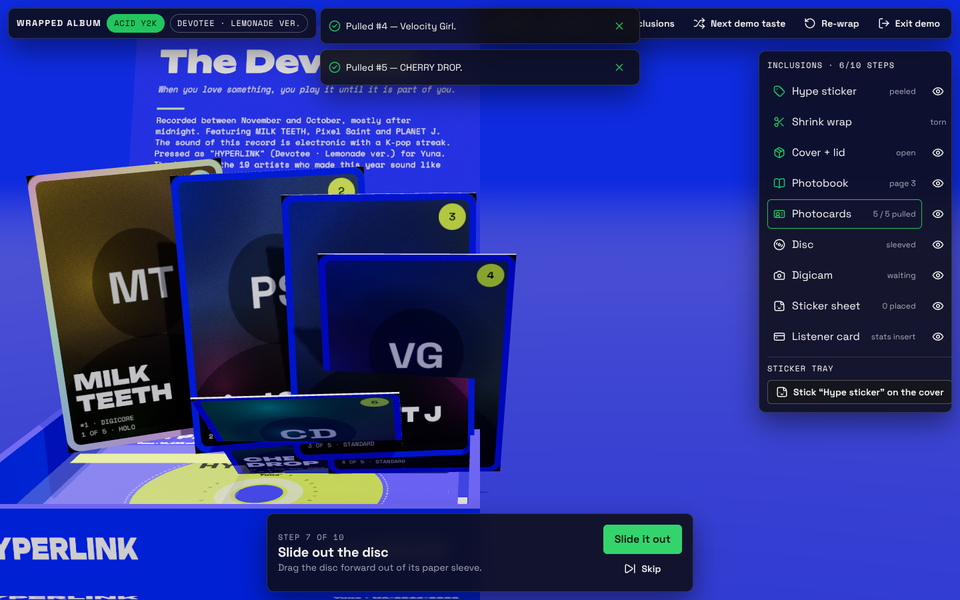
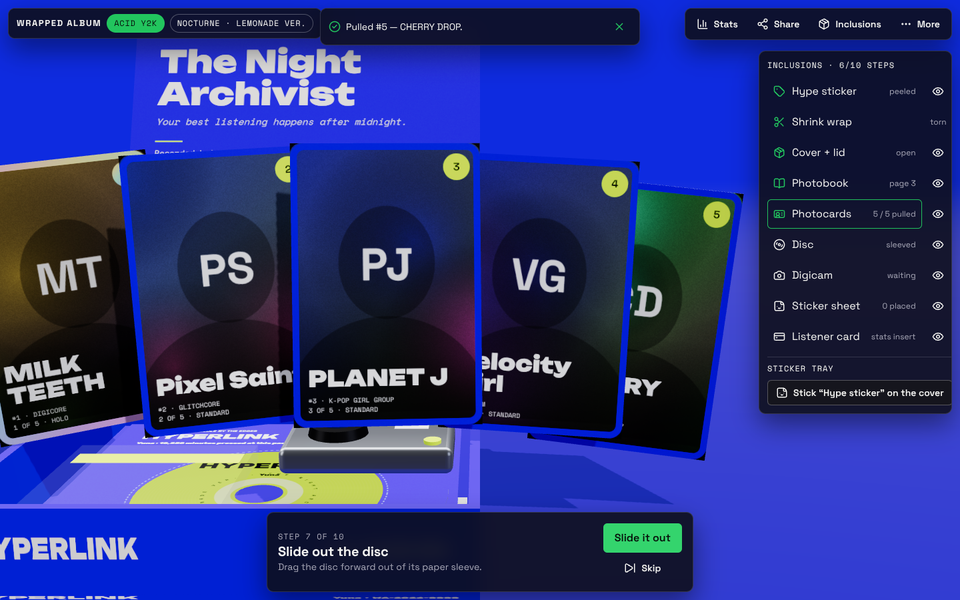
Face the disc label toward the camera and refresh screenshots
Claude-Session: https://claude.ai/code/session_01NNKeAar7v5yBVB77t1AYcp

diff --git a/src/three/camera.ts b/src/three/camera.ts
@@ -11,7 +11,7 @@ export const CAMERA_PRESETS: Record<Focus, CameraPreset> = {
   inside: { pos: [0, 27, 13], target: [0, 1, 0] },
   book: { pos: [-10, 16, 42], target: [-10, 7.5, 5] },
   cards: { pos: [4, 13, 32], target: [4, 7, 2] },
-  disc: { pos: [12, 12, 13], target: [12, 4, -5] },
+  disc: { pos: [12, 13, 17], target: [12, 4, -5] },
   addin: { pos: [4, 14, 12], target: [3.2, 1.2, -2.6] },
   stickers: { pos: [2.6, 15, 14], target: [2.6, 0.6, 3.2] },
   card: { pos: [-2, 12, 9], target: [-2.2, 3, -2.5] },

diff --git a/src/three/Disc.tsx b/src/three/Disc.tsx
@@ -71,9 +71,10 @@ export function Disc({ assets }: { assets: AlbumAssets }) {
       _q.setFromEuler(_e)
       dampQuat(g.quaternion, _q, 6, dt, reduced)
     } else if (focus === 'disc') {
+      // Tilt the label side up toward the camera
       _v.set(12, 5, -5)
       dampVec(g.position, _v, 5, dt, reduced)
-      _e.set(-1.0, 0, 0)
+      _e.set(0.9, 0, 0)
       _q.setFromEuler(_e)
       dampQuat(g.quaternion, _q, 5, dt, reduced)
     } else {
